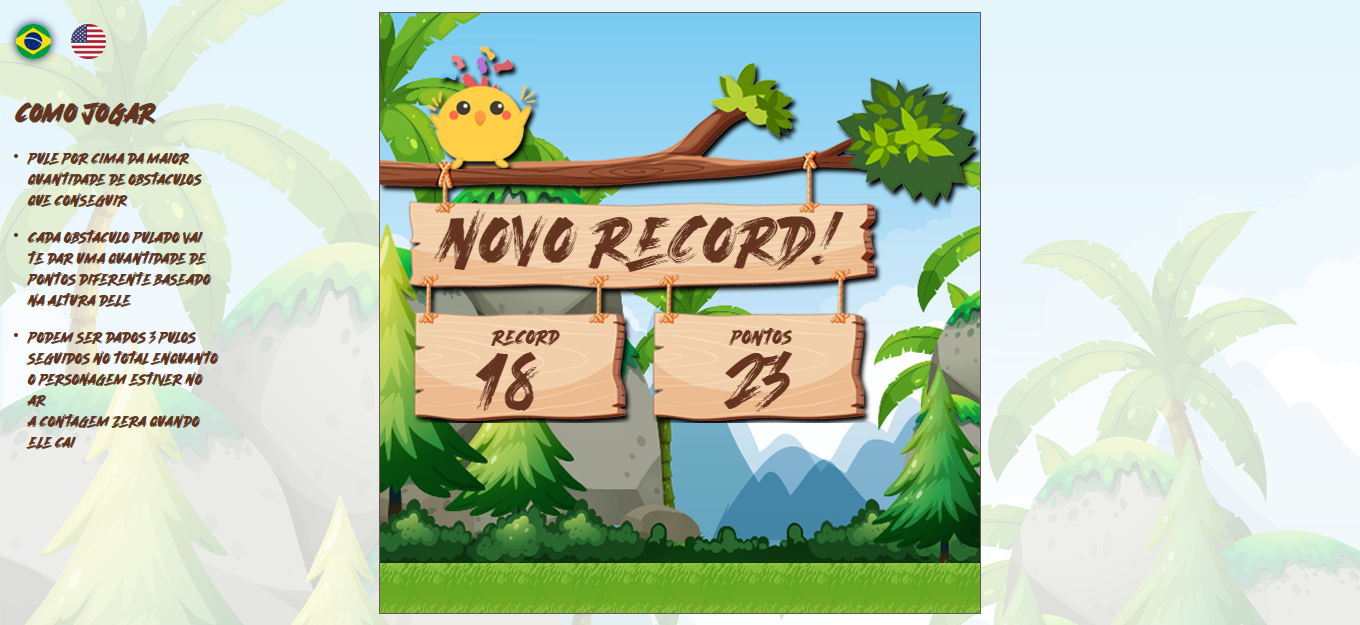
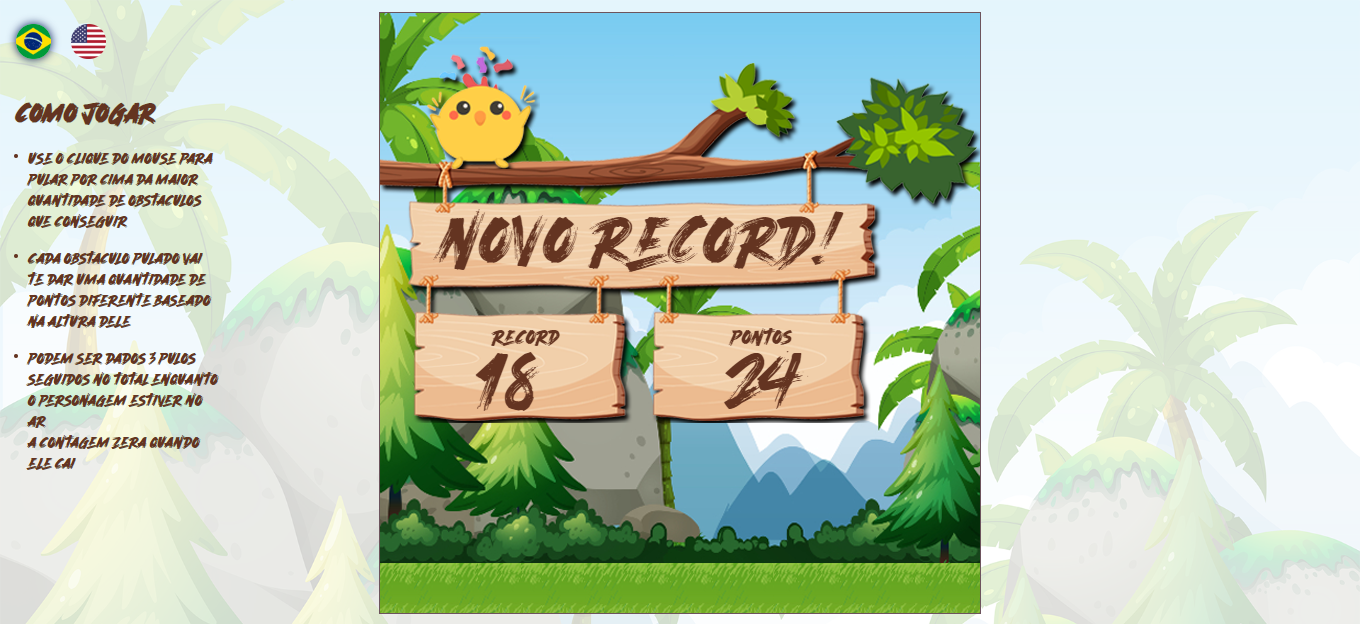
Ajustes de instruções e screenshots

diff --git a/index.html b/index.html
@@ -30,7 +30,7 @@
 
         <ol>
             <li>
-                <p>Pule por cima da maior quantidade de obstaculos que conseguir;</p>
+                <p>Use o clique do mouse para pular por cima da maior quantidade de obstaculos que conseguir;</p>
             </li>
 
             <li>
